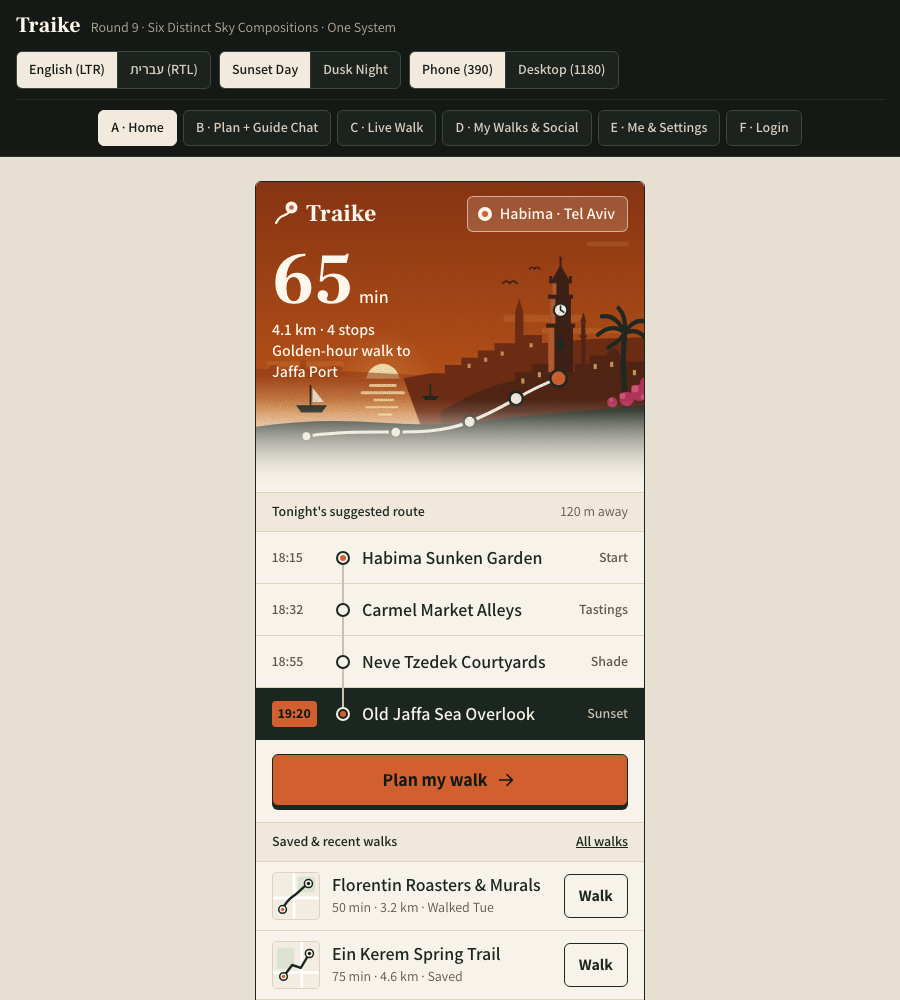
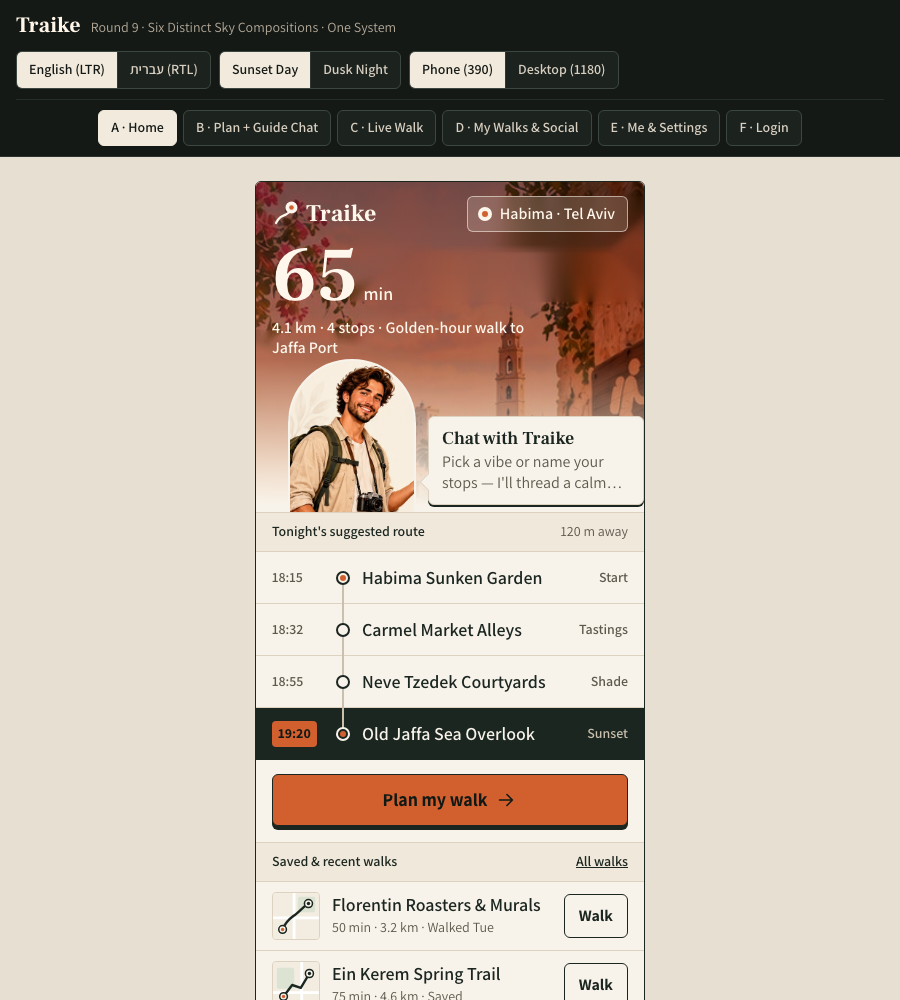
Design round 13c: RTL guide on left/speech right; home like plan with rose tint

Changed region(s): [[0.28, 0.155, 0.7156, 1.0]]

diff --git a/docs/design-brief/gemini/13-blend.html b/docs/design-brief/gemini/13-blend.html
@@ -1623,13 +1623,17 @@ SELF-CHECK ANSWERS:
   .band-art-photo{background:var(--hero-art) 94% 0%/auto 118% no-repeat}
   .band-art-photo::before{content:"";position:absolute;inset:0;background:linear-gradient(180deg,#8E3A18 0%,#B0562A 45%,#CE7A46 80%,#E8A878 100%);mix-blend-mode:multiply;opacity:.8}
   .band-plan-photo{height:330px}
-  .band-home{height:310px!important}
   .band-walks{min-height:310px!important}
-  .band-walks .band-art::after,.band-home .band-art::after{height:30%}
-  .band-home .home-trail-stage{display:none}
+  .band-walks .band-art::after{height:30%}
   .band-home .home-copy{max-width:70%}
   .band-home .band-art::before,.band-walks .band-art::before{display:none}
   .band-walks .band-title{max-width:230px}
+  .band-art-home::before{background:linear-gradient(180deg,#6E2A22 0%,#9A4630 45%,#C27A52 80%,#E6B084 100%)!important;opacity:.82!important}
+  .band-home-hero .hero-num{font-size:76px}
+  .band-home-hero .plan-title-wrap{max-width:72%}
+  html[dir="rtl"] .guide-stage{direction:ltr}
+  html[dir="rtl"] .speech-card{direction:rtl}
+  html[dir="rtl"] .speech-card::before{inset-inline-start:auto;left:-7px;right:auto;transform:rotate(45deg)}
   .loc-chip,button.loc-chip{background:rgba(255,247,236,.16)!important;color:var(--on-art)!important;border:1px solid rgba(255,247,236,.55)!important;box-shadow:none!important;backdrop-filter:blur(6px);-webkit-backdrop-filter:blur(6px)}
   .loc-chip .ring{border-color:var(--on-art)!important}
 </style>
@@ -1863,113 +1867,7 @@ SELF-CHECK ANSWERS:
          ======================================================= -->
     <section class="screen" data-id="home" aria-label="Home">
       <div class="col-sheet paired">
-        <header class="band band-home band-has-art"><div class="band-art"><svg class="a-day" preserveAspectRatio="xMidYMax slice" aria-hidden="true" viewBox="0 0 390 300" xmlns="http://www.w3.org/2000/svg">
-<defs>
-<linearGradient id="s" x1="0" y1="0" x2="0" y2="1"><stop offset="0" stop-color="#8A3311"/><stop offset=".62" stop-color="#B85016"/><stop offset=".8" stop-color="#E8A465"/><stop offset="1" stop-color="#F8F3EA"/></linearGradient>
-<linearGradient id="w" x1="0" y1="0" x2="0" y2="1"><stop offset="0" stop-color="#A8481A"/><stop offset=".3" stop-color="#DE9A5C"/><stop offset="1" stop-color="#F8F3EA"/></linearGradient>
-<radialGradient id="u" gradientUnits="userSpaceOnUse" cx="130" cy="192" r="50"><stop offset="0" stop-color="#FFC27A" stop-opacity=".24"/><stop offset="1" stop-color="#FFC27A" stop-opacity="0"/></radialGradient>
-<linearGradient id="f" x1="0" y1="0" x2="0" y2="1"><stop offset="0" stop-color="#fff"/><stop offset=".74" stop-color="#fff"/><stop offset="1" stop-color="#000"/></linearGradient>
-<mask id="m"><rect width="390" height="300" fill="url(#f)"/></mask>
-<filter id="g" x="0" y="0" width="100%" height="100%"><feTurbulence type="fractalNoise" baseFrequency=".9" numOctaves="2" seed="4"/><feColorMatrix values="0 0 0 0 .1 0 0 0 0 .05 0 0 0 0 .02 0 0 0 .5 -.17"/></filter>
-</defs>
-<g mask="url(#m)">
-<rect width="390" height="300" fill="url(#s)"/>
-<g stroke="#F2B36B" stroke-linecap="round" fill="none" opacity=".16">
-<path d="M250 132h70" stroke-width="7"/><path d="M286 144h80" stroke-width="5"/><path d="M20 176h70" stroke-width="5"/><path d="M330 60h36" stroke-width="5"/>
-</g>
-<circle cx="130" cy="192" r="50" fill="url(#u)"/>
-<circle cx="130" cy="192" r="16" fill="#FCE3B0"/>
-<path d="M0 190V181H20V177H28V181H50V173H56V181H80V178H90V183L130 185L170 187L210 190Z" fill="#8F3A14" opacity=".55"/>
-<rect y="190" width="390" height="110" fill="url(#w)"/>
-<g stroke="#FCE3B0" stroke-linecap="round" opacity=".8">
-<path d="M118 197h24" stroke-width="3"/><path d="M110 204h40" stroke-width="3"/><path d="M122 211h18" stroke-width="2.5"/><path d="M114 218h30" stroke-width="2"/><path d="M126 225h12" stroke-width="2"/>
-</g>
-<path d="M150 190L176 185H190V177H206V170H222V163H238V156H258V126L262 113L266 126V148H284V156L330 152L390 150V300H190Z" fill="#6E2A12"/>
-<g fill="#F6C27A" opacity=".7"><rect x="212" y="176" width="3" height="4"/><rect x="228" y="170" width="3" height="4"/><rect x="244" y="164" width="3" height="4"/><rect x="272" y="156" width="3" height="4"/></g>
-<g stroke="#3A1D14" stroke-width="1.6" stroke-linecap="round" fill="none"><path d="M246 98q4 -4 7 0q3 -4 7 0"/><path d="M272 84q3 -3 5 0q2 -3 5 0"/></g>
-<g fill="#3A1D14">
-<rect x="290" y="140" width="24" height="46"/><rect x="292" y="112" width="20" height="28"/><rect x="288" y="137" width="28" height="4"/><rect x="290" y="109" width="24" height="4"/><rect x="294" y="97" width="16" height="13"/><path d="M292 98L302 80L312 98Z"/><rect x="291" y="91" width="3" height="7"/><rect x="310" y="91" width="3" height="7"/>
-</g>
-<path d="M302 81V73" stroke="#3A1D14" stroke-width="2" stroke-linecap="round"/>
-<g fill="#E0733A" opacity=".75"><rect x="290" y="141" width="6" height="45"/><rect x="292" y="113" width="5" height="24"/><rect x="294" y="98" width="4" height="11"/></g>
-<path d="M299 162v-7a3 3 0 0 1 6 0v7z" fill="#1B2620"/>
-<circle cx="302" cy="124" r="6.5" fill="#F8F3EA" stroke="#1B2620" stroke-width="2"/>
-<path d="M302 124V120M302 124L305 126" stroke="#1B2620" stroke-width="1.5" stroke-linecap="round"/>
-<g fill="#4E2212">
-<path d="M186 222Q226 198 258 192V184H274V176H290V184H316V176H330V168H346Q353 154 360 168V174H390V300H186Z"/>
-<rect x="322" y="136" width="4" height="40"/><rect x="320.500" y="148" width="7" height="2.500"/><path d="M321 136L324 126L327 136Z"/>
-</g>
-<g fill="#F6C27A" opacity=".75"><rect x="264" y="190" width="3" height="5"/><rect x="280" y="184" width="3" height="5"/><rect x="334" y="176" width="3" height="5"/><rect x="350" y="174" width="3" height="5"/><rect x="372" y="182" width="3" height="5"/></g>
-<g fill="#1B2620"><path d="M46 216h30l-5 7h-20z"/><path d="M168 207h16l-3 4h-10z"/></g>
-<path d="M60 216V197M176 207V196" stroke="#1B2620" stroke-width="1.6" stroke-linecap="round"/>
-<path d="M62 199V213H73Z" fill="#F8F3EA" opacity=".85"/>
-<path d="M0 238Q60 228 130 233T250 228L390 216V300H0Z" fill="#1B2620"/>
-<g stroke="#1B2620" stroke-linecap="round" fill="none">
-<path d="M368 236Q360 190 364 146" stroke-width="5"/>
-<g stroke-width="4"><path d="M364 146q-12 -10 -26 2"/><path d="M364 146q-8 -18 -22 -16"/><path d="M364 146q2 -16 -6 -24"/><path d="M364 146q10 -16 22 -10"/><path d="M364 146q14 -6 22 8"/><path d="M364 146q-4 8 -16 14"/></g>
-</g>
-<g fill="#B8325E"><circle cx="378" cy="204" r="8"/><circle cx="366" cy="210" r="7"/><circle cx="352" cy="213" r="5"/><circle cx="384" cy="194" r="5"/></g>
-<g fill="#D9567A"><circle cx="374" cy="200" r="3.500"/><circle cx="362" cy="207" r="3"/><circle cx="382" cy="208" r="2.500"/><circle cx="351" cy="211" r="2"/></g>
-<path d="M56 246C120 236 170 250 214 232S262 204 300 190" fill="none" stroke="#F8F3EA" stroke-width="3" stroke-linecap="round"/>
-<g fill="#F8F3EA" stroke="#1B2620" stroke-width="2.500">
-<circle cx="56" cy="246" r="5"/><circle cx="142.500" cy="242" r="5.500"/><circle cx="214" cy="232" r="6"/><circle cx="259" cy="209.500" r="6.500"/><circle cx="300" cy="190" r="8" fill="#D2602F"/>
-</g>
-<rect width="390" height="300" filter="url(#g)"/>
-</g>
-</svg><svg class="a-night" preserveAspectRatio="xMidYMax slice" aria-hidden="true" viewBox="0 0 390 300" xmlns="http://www.w3.org/2000/svg" style="filter:brightness(.55) saturate(.85)">
-<defs>
-<linearGradient id="s" x1="0" y1="0" x2="0" y2="1"><stop offset="0" stop-color="#8A3311"/><stop offset=".62" stop-color="#B85016"/><stop offset=".8" stop-color="#E8A465"/><stop offset="1" stop-color="#F8F3EA"/></linearGradient>
-<linearGradient id="w" x1="0" y1="0" x2="0" y2="1"><stop offset="0" stop-color="#A8481A"/><stop offset=".3" stop-color="#DE9A5C"/><stop offset="1" stop-color="#F8F3EA"/></linearGradient>
-<radialGradient id="u" gradientUnits="userSpaceOnUse" cx="130" cy="192" r="50"><stop offset="0" stop-color="#FFC27A" stop-opacity=".24"/><stop offset="1" stop-color="#FFC27A" stop-opacity="0"/></radialGradient>
-<linearGradient id="f" x1="0" y1="0" x2="0" y2="1"><stop offset="0" stop-color="#fff"/><stop offset=".74" stop-color="#fff"/><stop offset="1" stop-color="#000"/></linearGradient>
-<mask id="m"><rect width="390" height="300" fill="url(#f)"/></mask>
-<filter id="g" x="0" y="0" width="100%" height="100%"><feTurbulence type="fractalNoise" baseFrequency=".9" numOctaves="2" seed="4"/><feColorMatrix values="0 0 0 0 .1 0 0 0 0 .05 0 0 0 0 .02 0 0 0 .5 -.17"/></filter>
-</defs>
-<g mask="url(#m)">
-<rect width="390" height="300" fill="url(#s)"/>
-<g stroke="#F2B36B" stroke-linecap="round" fill="none" opacity=".16">
-<path d="M250 132h70" stroke-width="7"/><path d="M286 144h80" stroke-width="5"/><path d="M20 176h70" stroke-width="5"/><path d="M330 60h36" stroke-width="5"/>
-</g>
-<circle cx="130" cy="192" r="50" fill="url(#u)"/>
-<circle cx="130" cy="192" r="16" fill="#FCE3B0"/>
-<path d="M0 190V181H20V177H28V181H50V173H56V181H80V178H90V183L130 185L170 187L210 190Z" fill="#8F3A14" opacity=".55"/>
-<rect y="190" width="390" height="110" fill="url(#w)"/>
-<g stroke="#FCE3B0" stroke-linecap="round" opacity=".8">
-<path d="M118 197h24" stroke-width="3"/><path d="M110 204h40" stroke-width="3"/><path d="M122 211h18" stroke-width="2.5"/><path d="M114 218h30" stroke-width="2"/><path d="M126 225h12" stroke-width="2"/>
-</g>
-<path d="M150 190L176 185H190V177H206V170H222V163H238V156H258V126L262 113L266 126V148H284V156L330 152L390 150V300H190Z" fill="#6E2A12"/>
-<g fill="#F6C27A" opacity=".7"><rect x="212" y="176" width="3" height="4"/><rect x="228" y="170" width="3" height="4"/><rect x="244" y="164" width="3" height="4"/><rect x="272" y="156" width="3" height="4"/></g>
-<g stroke="#3A1D14" stroke-width="1.6" stroke-linecap="round" fill="none"><path d="M246 98q4 -4 7 0q3 -4 7 0"/><path d="M272 84q3 -3 5 0q2 -3 5 0"/></g>
-<g fill="#3A1D14">
-<rect x="290" y="140" width="24" height="46"/><rect x="292" y="112" width="20" height="28"/><rect x="288" y="137" width="28" height="4"/><rect x="290" y="109" width="24" height="4"/><rect x="294" y="97" width="16" height="13"/><path d="M292 98L302 80L312 98Z"/><rect x="291" y="91" width="3" height="7"/><rect x="310" y="91" width="3" height="7"/>
-</g>
-<path d="M302 81V73" stroke="#3A1D14" stroke-width="2" stroke-linecap="round"/>
-<g fill="#E0733A" opacity=".75"><rect x="290" y="141" width="6" height="45"/><rect x="292" y="113" width="5" height="24"/><rect x="294" y="98" width="4" height="11"/></g>
-<path d="M299 162v-7a3 3 0 0 1 6 0v7z" fill="#1B2620"/>
-<circle cx="302" cy="124" r="6.5" fill="#F8F3EA" stroke="#1B2620" stroke-width="2"/>
-<path d="M302 124V120M302 124L305 126" stroke="#1B2620" stroke-width="1.5" stroke-linecap="round"/>
-<g fill="#4E2212">
-<path d="M186 222Q226 198 258 192V184H274V176H290V184H316V176H330V168H346Q353 154 360 168V174H390V300H186Z"/>
-<rect x="322" y="136" width="4" height="40"/><rect x="320.500" y="148" width="7" height="2.500"/><path d="M321 136L324 126L327 136Z"/>
-</g>
-<g fill="#F6C27A" opacity=".75"><rect x="264" y="190" width="3" height="5"/><rect x="280" y="184" width="3" height="5"/><rect x="334" y="176" width="3" height="5"/><rect x="350" y="174" width="3" height="5"/><rect x="372" y="182" width="3" height="5"/></g>
-<g fill="#1B2620"><path d="M46 216h30l-5 7h-20z"/><path d="M168 207h16l-3 4h-10z"/></g>
-<path d="M60 216V197M176 207V196" stroke="#1B2620" stroke-width="1.6" stroke-linecap="round"/>
-<path d="M62 199V213H73Z" fill="#F8F3EA" opacity=".85"/>
-<path d="M0 238Q60 228 130 233T250 228L390 216V300H0Z" fill="#1B2620"/>
-<g stroke="#1B2620" stroke-linecap="round" fill="none">
-<path d="M368 236Q360 190 364 146" stroke-width="5"/>
-<g stroke-width="4"><path d="M364 146q-12 -10 -26 2"/><path d="M364 146q-8 -18 -22 -16"/><path d="M364 146q2 -16 -6 -24"/><path d="M364 146q10 -16 22 -10"/><path d="M364 146q14 -6 22 8"/><path d="M364 146q-4 8 -16 14"/></g>
-</g>
-<g fill="#B8325E"><circle cx="378" cy="204" r="8"/><circle cx="366" cy="210" r="7"/><circle cx="352" cy="213" r="5"/><circle cx="384" cy="194" r="5"/></g>
-<g fill="#D9567A"><circle cx="374" cy="200" r="3.500"/><circle cx="362" cy="207" r="3"/><circle cx="382" cy="208" r="2.500"/><circle cx="351" cy="211" r="2"/></g>
-<path d="M56 246C120 236 170 250 214 232S262 204 300 190" fill="none" stroke="#F8F3EA" stroke-width="3" stroke-linecap="round"/>
-<g fill="#F8F3EA" stroke="#1B2620" stroke-width="2.500">
-<circle cx="56" cy="246" r="5"/><circle cx="142.500" cy="242" r="5.500"/><circle cx="214" cy="232" r="6"/><circle cx="259" cy="209.500" r="6.500"/><circle cx="300" cy="190" r="8" fill="#D2602F"/>
-</g>
-<rect width="390" height="300" filter="url(#g)"/>
-</g>
-</svg></div>
+        <header class="band band-plan band-plan-photo band-home-hero band-has-art"><div class="band-art band-art-photo band-art-home" aria-hidden="true"></div>
           <div class="band-topbar">
             <span class="brand on-art hide-desktop">
               <svg class="rtl-flip" width="26" height="26" viewBox="0 0 26 26" fill="none" aria-hidden="true">
@@ -1986,42 +1884,29 @@ SELF-CHECK ANSWERS:
             </button>
           </div>
 
-          <div class="home-hero-grid">
-            <div class="home-copy">
+          <div class="plan-header-row">
+            <div class="plan-title-wrap">
               <div class="hero-stat">
                 <span class="hero-num"><bdi>65</bdi></span>
                 <span class="hero-unit" data-en>min</span>
                 <span class="hero-unit" data-he>דק׳</span>
               </div>
               <div class="band-facts">
-                <span data-en>4.1 km · 4 stops<br/>Golden-hour walk to Jaffa Port</span>
-                <span data-he><bdi>4.1</bdi> ק״מ · <bdi>4</bdi> תחנות<br/>הליכת שקיעה לנמל יפו</span>
+                <span data-en>4.1 km · 4 stops · Golden-hour walk to Jaffa Port</span>
+                <span data-he><bdi>4.1</bdi> ק״מ · <bdi>4</bdi> תחנות · הליכת שקיעה לנמל יפו</span>
               </div>
             </div>
+          </div>
 
-            <!-- Crafted SVG Trail ascending 4 Rings to the Sunset Disc / Night Crescent + 3D Compass inside sky -->
-            <div class="home-trail-stage" aria-hidden="true">
-              <svg class="home-trail-svg rtl-flip" viewBox="0 0 142 162" fill="none">
-                <!-- Subtle Mediterranean Old-Jaffa arch & belltower horizon line -->
-                <path d="M8 138H52V124C52 118 62 118 62 124V138H96V110L102 98L108 110V138H136" stroke="var(--sky-arch-stroke)" stroke-width="1.5" stroke-linecap="round" stroke-linejoin="round"/>
-                <!-- Day Sun Disc -->
-                <circle class="day-only" cx="104" cy="30" r="21" fill="var(--sun-disc)" fill-opacity="0.92"/>
-                <!-- Night Crescent Moon -->
-                <path class="night-only" d="M111 16A18 18 0 1 0 124 41A14 14 0 0 1 111 16Z" fill="var(--sun-disc)"/>
-                <!-- Winding 4-stop Trail rising from start Ring to Jaffa overlook -->
-                <path d="M18 140C38 134 36 108 56 100C78 92 70 66 94 54C102 50 104 42 104 34" stroke="var(--on-art)" stroke-width="3" stroke-linecap="round"/>
-                <!-- Stop 1 (Now-Ring) -->
-                <circle cx="18" cy="140" r="6.5" fill="var(--paper)" stroke="#1B2620" stroke-width="2"/>
-                <circle cx="18" cy="140" r="2.8" fill="var(--leather)"/>
-                <!-- Stop 2 -->
-                <circle cx="56" cy="100" r="5" fill="var(--paper)" stroke="#1B2620" stroke-width="1.8"/>
-                <!-- Stop 3 -->
-                <circle cx="84" cy="64" r="5" fill="var(--paper)" stroke="#1B2620" stroke-width="1.8"/>
-                <!-- Stop 4 (Sunset Finish Ring) -->
-                <circle cx="104" cy="34" r="7" fill="var(--paper)" stroke="#1B2620" stroke-width="2"/>
-                <circle cx="104" cy="34" r="3" fill="var(--leather)"/>
-              </svg>
-              <img class="home-compass" src="assets/compass.png" alt="" onerror="this.style.display='none'" />
+          <!-- Guide Arch + Paper Speech Card -->
+          <div class="guide-stage">
+            <img class="guide-arch day-only" src="assets/guide.jpg" alt="Traike walking guide" />
+            <img class="guide-arch night-only" src="assets/guide-night.jpg" alt="Traike walking guide at night" />
+            <div class="speech-card">
+              <h2 class="speech-title" data-en>Chat with Traike</h2>
+              <h2 class="speech-title" data-he>שיחה עם טרייק</h2>
+              <p class="speech-body" data-en>Pick a vibe or name your stops — I'll thread a calm route.</p>
+              <p class="speech-body" data-he>בחרו אווירה או כתבו תחנות — אחבר לכם מסלול מדויק.</p>
             </div>
           </div>
         </header>
